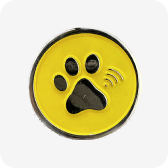
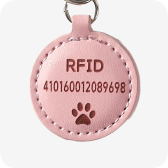
20240718 업데이트

diff --git a/resources/assets/PR.1.6.html b/resources/assets/PR.1.6.html
@@ -204,7 +204,7 @@
                             <div class="product-detail-info">
                                 <div class="product-detail-img"></div>
                                 <div class="product-detail-text">
-                                    <h5>닥터클루니 외장형 메탈프리</h5>
+                                    <h5>닥터클루니 외장형 전자태그</h5>
                                     <ol>
                                         <li>제품에 열을 가하지 마십시오.</li>
                                         <li>개가 삼키지 않게 유의 하십시오.</li>
@@ -218,24 +218,78 @@
                             <div class="product-spec-info">
                                 <dl>
                                     <dt>제품 재질</dt>
-                                    <dd>아연/합금</dd>
+                                    <dd>coin tag(PVC) synthetic leader</dd>
+                                </dl>
+                                <dl>
+                                    <dt>원산지</dt>
+                                    <dd>대한민국</dd>
+                                </dl>
+                                <dl>
+                                    <dt>제품 크기</dt>
+                                    <dd>가로 28mm / 세로 35mm</dd>
+                                </dl>
+                                <dl>
+                                    <dt>사용방법</dt>
+                                    <dd>후면에 보호자 이름과 전화번호를<br>
+                                        기입하여 사용하세요.</dd>
+                                </dl>
+                            </div>
+                        </div>
+                    </div>
+                </div>
+                <div class="modal-footer">
+                    <div class="btn-group">
+                        <button type="button" class="btn btn-md btn-blue">확인</button>
+                    </div>
+                </div>
+            </div>
+        </div>
+    </div>
+    <!-- END : productDetailModal -->
+
+    <!-- START : productDetailModal02 -->
+    <div id="productDetailModal02" class="modal-wrap es-modal active" >
+        <div class="modal-inner">
+            <div class="modal-content">
+                <div class="modal-header">
+                    <h1>제품정보</h1>
+                    <button type="button" class="btn-modal-close"><i class="ico i-x"></i></button>
+                </div>
+                <div class="modal-body">
+                    <div class="product-detail-wrap">
+                        <div class="product-detail-area">
+                            <h5>주의사항</h5>
+                            <div class="product-detail-info">
+                                <div class="product-detail-img02"></div>
+                                <div class="product-detail-text">
+                                    <h5>닥터클루니 외장형 전자태그</h5>
+                                    <ol>
+                                        <li>제품에 열을 가하지 마십시오.</li>
+                                        <li>개가 삼키지 않게 유의 하십시오.</li>
+                                        <li>제품에 전자칩이 들어있습니다.</li>
+                                    </ol>
+                                </div>
+                            </div>
+                        </div>
+                        <div class="product-detail-area">
+                            <h5>제품사양</h5>
+                            <div class="product-spec-info">
+                                <dl>
+                                    <dt>제품 재질</dt>
+                                    <dd>스텐레스</dd>
                                 </dl>
                                 <dl>
                                     <dt>원산지</dt>
                                     <dd>중국</dd>
                                 </dl>
                                 <dl>
-                                    <dt>제품 재질</dt>
-                                    <dd>FDX-BISO 11784/5</dd>
-                                </dl>
-                                <dl>
                                     <dt>제품 크기</dt>
-                                    <dd>가로 22mm / 높이 24mm / 두께 2.5mm</dd>
+                                    <dd>가로22mm / 세로 24mm</dd>
                                 </dl>
                                 <dl>
                                     <dt>사용방법</dt>
-                                    <dd>후면에 보호자 이름과 전화번호를 기입하고<br>
-                                        투명 스티커를 부착하여 사용하십시오.</dd>
+                                    <dd>후면에 보호자 이름과 전화번호를<br>
+                                        기입하여 사용하세요.</dd>
                                 </dl>
                             </div>
                         </div>
@@ -276,7 +330,7 @@
                                 <input type="radio" id="radio02" name="productChange">
                                 <label for="radio02">
                                     <div class="product">
-                                        <div class="product-img"></div>
+                                        <div class="product-img02"></div>
                                         <div class="product-text">
                                             <h5>아트비코팅 메탈프리 22(노랑)</h5>
                                             <p><span class="price-before">15,000</span>→<span

diff --git a/resources/assets/개인정보제3자제공동의.html b/resources/assets/개인정보제3자제공동의.html
@@ -1,0 +1,71 @@
+<!DOCTYPE html>
+<html lang="en">
+
+<head>
+    <meta charset="UTF-8">
+    <meta http-equiv="X-UA-Compatible" content="IE=edge">
+    <meta name="viewport"
+        content="width=device-width,viewport-fit=cover,initial-scale=1.0,minimum-scale=1.0,maximum-scale=1.0,user-scalable=no">
+    <title>Pet PASS</title>
+    <link rel="stylesheet" href="css/styles.css">
+</head>
+
+<body>
+    <div class="wrap">
+        <!-- START : Header -->
+        <header class="header">
+            <div class="container">
+                <h3>개인정보 제3자 제공동의</h3>
+                <a href="#" class="last">
+                    <i class="ico i-x"></i>
+                </a>
+            </div>
+        </header>
+        <!-- END : Header -->
+
+        <!-- START : Content -->
+        <main>
+            <div class="main-wrap">
+                <section class="container">
+                    <div class="terms">
+                        <p>모바일지갑 반려동물 확인증 서비스(이하 "서비스"라 한다)와 관련하여, 본인은 동의내용을 숙지하였으며, 이에 따라 본인의 개인정보를 귀사(SK텔레콤주식회사)가 수집한 본인의 개인정보를 아래와 같이 제3자에게 제공받는 것에 대해 동의합니다.</p>
+                        <table>
+                            <colgroup>
+                            <col style="width: 30%;">
+                            <col style="width: 70%;">
+                        </colgroup>
+                            <tbody>
+                                <tr>
+                                    <th>제공받는 자</th>
+                                    <td>(주)우연컴퍼니, 반려동물 출입처(화성시동탄여울공원반려가족놀이터, 화성시 백미힐링마당 반려가족 놀이터, 고양시 덕수공원 반려견 놀이터, 고양시 서구 반려동물공원, 서울 동작 반려견공원)</td>
+                                </tr>
+                                <tr>
+                                    <th>제공받는 자의 개인정보 이용 목적</th>
+                                    <td>반려동물 출입 QR 출입 시 보호자 및 반려동물 확인</td>
+                                </tr>
+                                <tr>
+                                    <th>개인정보 제공항목</th>
+                                    <td>출입일시, 보호자 정보(이름, 생년월일, 핸드폰 번호), 반려동물 이름, 품종, 성별, 중성화 여부</td>
+                                </tr>
+                                <tr>
+                                    <th>제공받는 자의 보유 및 이용기간</th>
+                                    <td>서비스 제공 기간</td>
+                                </tr>
+                            </tbody>
+                        </table>
+                        <p>고객은 개인정보의 제3자 제공에 대한 동의를 거부할 권리가 있으며, 동의를 거부할 경우 받는 별도의 불이익은 없습니다. 단, 서비스 이용이 불가하거나, 서비스 이용 목적에 따른 서비스 제공에 제한이 따르게 됩니다.</p>
+                    </div>
+                </section>
+            </div>
+        </main>
+    </div>
+
+
+    <!-- START : Script -->
+    <script src="lib/jquery.min.js"></script>
+    <script src="lib/swiper-bundle.min.js"></script>
+    <script src="js/common.js"></script>
+    <!-- END : Script -->
+</body>
+
+</html>

diff --git a/resources/assets/css/styles.css b/resources/assets/css/styles.css
@@ -215,6 +215,15 @@
     width: 68px;
 }
 
+.product-img02 {
+    background: url(../img/product-01.png);
+    background-size: cover;
+    border: 1px solid var(--pass-line);
+    border-radius: .5rem;
+    height: 68px;
+    width: 68px;
+}
+
 .product-text {
     display: flex;
     flex-direction: column;
@@ -1142,4 +1151,19 @@ hr.line {
     margin: auto 0 0 0;
     padding: 1rem 1.125rem;
     position: sticky;
+}
+
+/* **************************************** *
+ * 개인정보 제3자 제공동의
+ * **************************************** */
+.terms table {
+    border-collapse: collapse;
+    border-top: 1px solid var(--pass-black);
+}
+
+.terms table tr th,
+.terms table tr td {
+    border-bottom: 1px solid var(--pass-line);
+    font-size: var(--pass-text-md);
+    padding: 12px;
 }

diff --git a/resources/assets/css/modal.css b/resources/assets/css/modal.css
@@ -195,6 +195,14 @@
     width: 5.25rem;
 }
 
+.product-detail-img02 {
+    background: url(../img/product-03.png);
+    background-size: cover;
+    border-radius: .5rem;
+    height: 5.25rem;
+    width: 5.25rem;
+}
+
 .product-detail-text {
     display: flex;
     flex-direction: column;
@@ -241,7 +249,7 @@
 
 .product-spec-info dd {
     color: var(--pass-darkgray);
-    font-size: var(--pass-text-mn);
+    font-size: var(--pass-text-mn);3
     text-align: left;
 }
 
